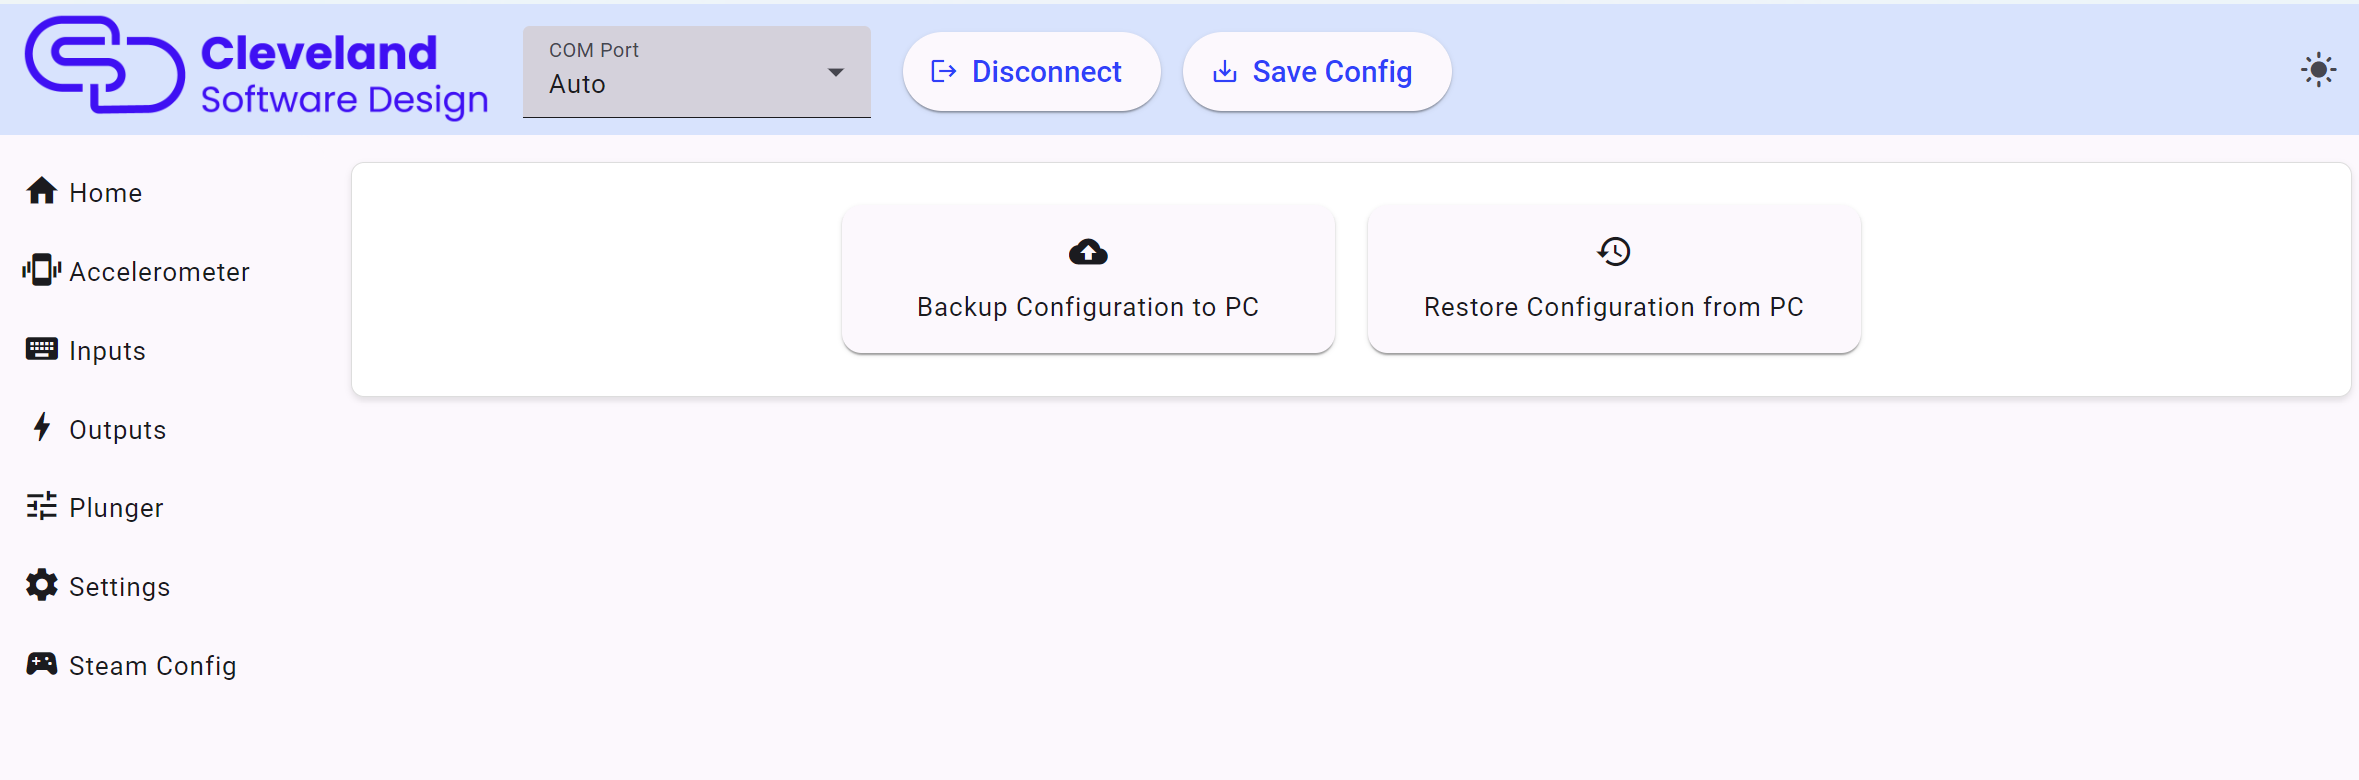
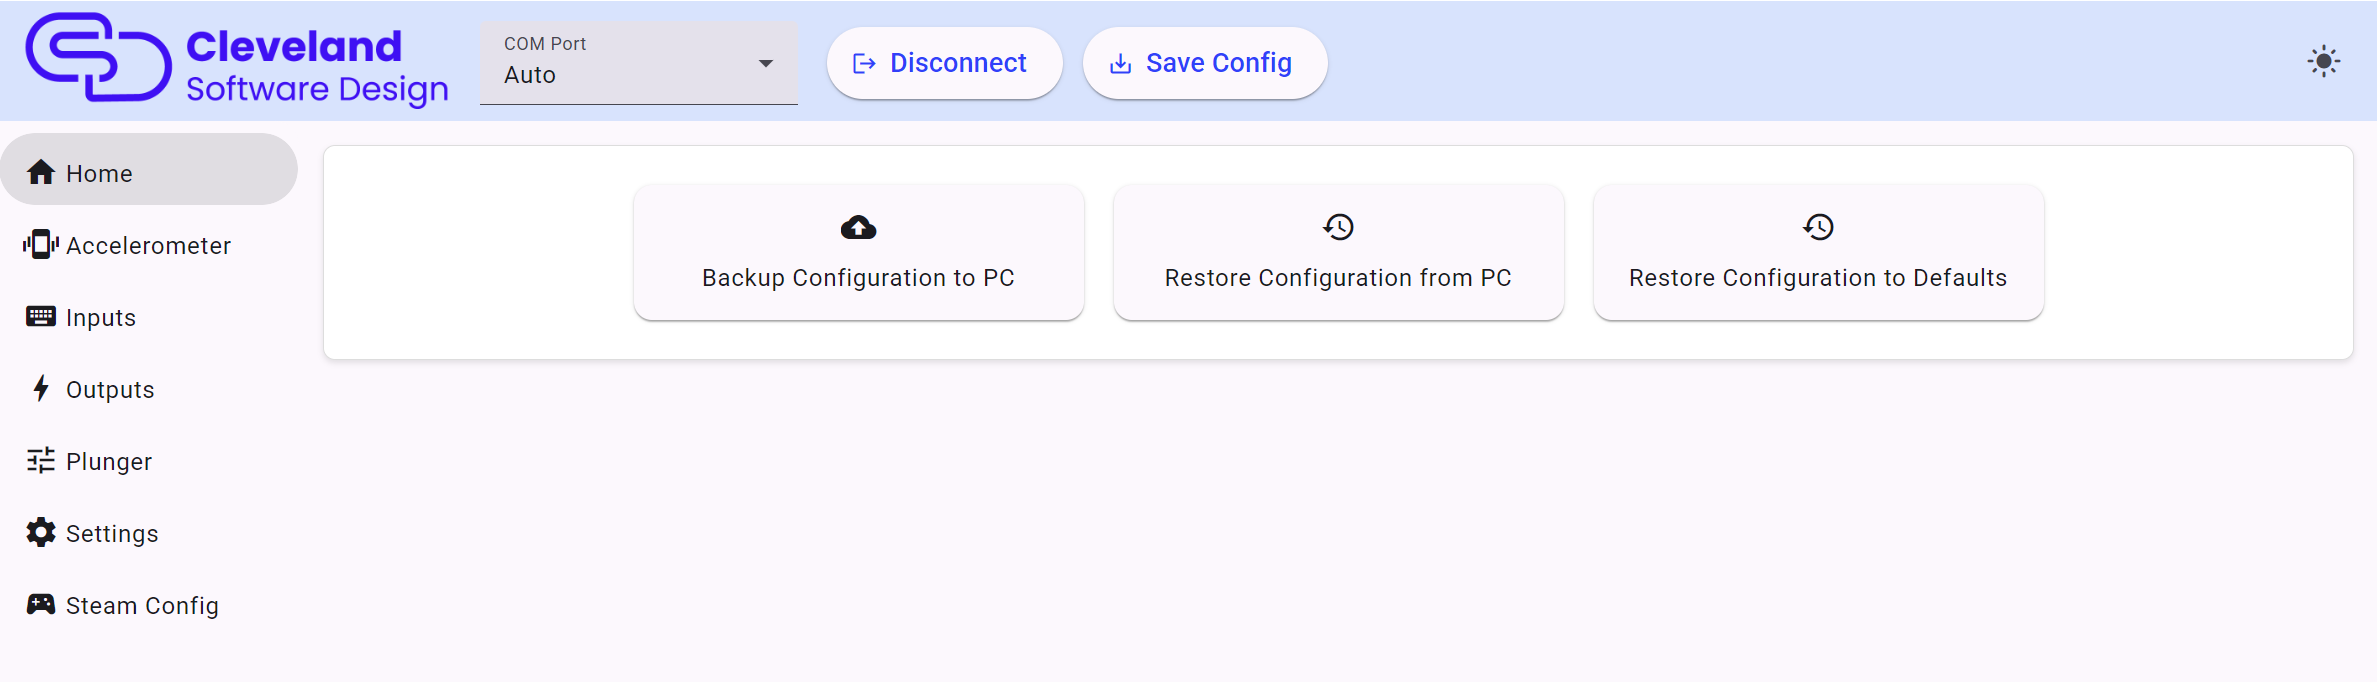
updated pictures to most recent versions

diff --git a/docs/PinOne/Configuring/index.md b/docs/PinOne/Configuring/index.md
@@ -14,10 +14,10 @@ Configuring the PinOne board is designed to be extremely simple. Just plug the b
 
 ![image](./img/mainWindowDisconnected.png)
 
-Clicking connect should result in the window updating as shown:
+### After Connecting
 ![image](./img/mainWindowConnected.png)
 
-You can now access all the menus available to test and configure the PinOne board. You can also save a backup of the settings changes in case you need to replace your board in the future.
+You can now access all the menus available to test and configure the PinOne board. You can also save a backup of the settings or restore settings to default.
 
 ### Updating Firmware
 
